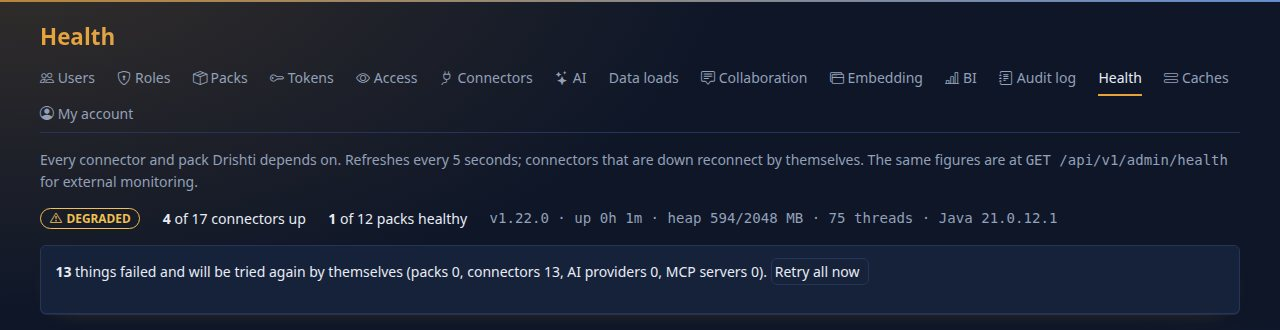
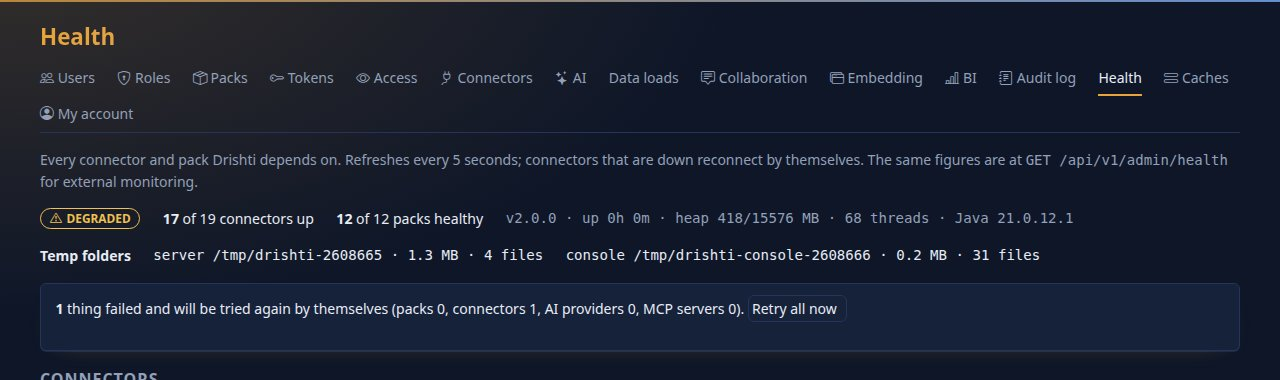
Tutorial 17: temp folders and the type-ahead index reload (new pictures, retaken Health); recipes example fixed

diff --git a/tools/docs/shots/t17.py b/tools/docs/shots/t17.py
@@ -82,8 +82,23 @@ def roles_tokens(c: Ctx):
 def health(c: Ctx):
     login(c, height=900)
     go(c, "/admin/health", wait="table", settle=2500)
-    c.save("08-health.jpg", clip={"x": 0, "y": 56, "width": 1280, "height": 330})
+    c.save("08-health.jpg", clip={"x": 0, "y": 56, "width": 1280, "height": 380})
     go(c, "/admin/caches", wait="table", settle=1500)
     c.save("09-caches.jpg", clip={"x": 0, "y": 56, "width": 1280, "height": 560})
     go(c, "/admin/audit?subject=drishti-dev-admin", wait="table", settle=1500)
     c.save("10-audit.jpg", clip={"x": 0, "y": 56, "width": 1280, "height": 640})
+
+
+@shot("11-index-reload.jpg")
+def index_reload(c: Ctx):
+    """Needs a stack that reads the demo lake (DRISHTI_DELTA_ROOT) with `index.days: 3` on the trading-store connector and a DRISHTI_INDEX_DIR of its own;
+    on the plain scratch stack the connector is down, so the picture is skipped and the one in the repository stays."""
+    import os
+    if not os.environ.get("DRISHTI_SHOTS_INDEX"):
+        print("  skipped: set DRISHTI_SHOTS_INDEX=1 on a stack with the lake and index.days: 3 on trading-store")
+        return
+    login(c, height=900)
+    go(c, "/admin/connectors/trading-store", wait="[data-index-panel] tbody tr", settle=1000)
+    c.page.locator("[data-index-panel] tbody tr").nth(1).locator("[data-index-reload]").click()
+    c.page.wait_for_timeout(2500)
+    elem_shot(c, "11-index-reload.jpg", "[data-index-panel]", pad=0)

diff --git a/docs/tutorials/17-run-it-in-production.md b/docs/tutorials/17-run-it-in-production.md
@@ -240,9 +240,17 @@ $ curl -s localhost:17480/readyz                         # the console can reach
 
 You should see `UP` four times. (`pythonRuntime` says whether Calc's browser Python is installed: only a Calc panel needs it.) For **people**, **Admin → Health**:
 
-![Admin, Health: the overall status DEGRADED, "4 of 17 connectors up", the version, uptime, heap 630/2048 MB, threads and Java; and "13 things failed and will be tried again by themselves"](img/t17/08-health.jpg)
+![Admin, Health: the overall status DEGRADED, "17 of 19 connectors up", the version, uptime, heap 418/15576 MB, threads and Java; the temp folders of the server and the console; and "1 thing failed and will be tried again by themselves"](img/t17/08-health.jpg)
 
 You should see the status (`OK`, `DEGRADED` when any source is down, stale or a pack has a problem, `DOWN` when no source is up), the version and the heap against its ceiling, and what is being retried: below it each connector with its state, last update, read latency and last error. (On this stack the lake of the banking demo was never built, so thirteen connectors are `DOWN` and retried with growing waits: a fresh install looks like this until you build it, as tutorial 1 said. The heap figure is the 2 GB ceiling you set above.)
+Under the status line, **Temp folders** names the one folder each process keeps (`drishti-<pid>` for the server, `drishti-console-<pid>` for the console, under `drishti.tmp-dir` / `DRISHTI_TMP_DIR` and `tmp_dir` / `DRISHTI_CONSOLE_TMP_DIR`) with its size and file count: DuckDB's spill, exports, uploads and Python scratch all live there, a clean stop removes it and the next start removes the folders of processes that died. If a figure there keeps growing, something is holding files open; the folder is the first place to look and is safe to leave alone.
+
+**The type-ahead index.** A connector that serves search keeps the ids it suggests as you type. With `index.days` above 1 it keeps several business days, so a past date suggests the ids of that day, and it can keep closed days on disk (`DRISHTI_INDEX_DIR`). Each connector's row on this page says how it is doing (`type-ahead index: 3 days (2 on disk, 0.1 MB), 30,000 ids, 1.6 MB, warm`), and the index follows its source by itself: a data-load signal rebuilds past days and every `index.reload-every` (10 minutes) a changed day is rebuilt. When you cannot wait (a past day was corrected with no signal), open **Admin → Connectors → the connector → Index** and press **Reload** on the day, **Reload kind**, or **Reload all**:
+
+![Admin, a connector's Index panel: the automatic check times, and the days of trade with where each is kept, its ids, size, build time and state; the second day was just reloaded](img/t17/11-index-reload.jpg)
+
+You should see the day you reloaded get a new *Built* time and stay *fresh*; the old day answered type-ahead until the new one replaced it, and one reload runs per connector at a time. Each reload is in the audit log. Sizing and the settings: [OPERATIONS.md section 12.2](../admin/OPERATIONS.md#122-sizing-the-multi-day-type-ahead-index) and [CONFIGURATION.md](../admin/CONFIGURATION.md#drishtiindex--the-multi-day-type-ahead-index). (This picture was made on a stack that reads the demo lake with `index.days: 3` on the `trading-store` connector.)
+
 For **monitoring**, Prometheus scrapes `/actuator/prometheus` with `Authorization: Bearer $DRISHTI_METRICS_TOKEN` (with security on every `/actuator` endpoint but health needs it), and there is a Grafana dashboard and a list of suggested alerts in [OPERATIONS.md section 13](../admin/OPERATIONS.md#13-monitoring). The one-call summary for a script is `GET /api/v1/admin/health`:
 
 ```text

diff --git a/docs/guides/BI_RECIPES.md b/docs/guides/BI_RECIPES.md
@@ -204,10 +204,9 @@ Shipped files are read-only. Copy one and edit the copy, which is private to you
 ## A dataset that is wrong
 
 ```
-POST /api/v1/bi/datasets/validate   {"yaml": "... measures:\n  N: { expr: \"sum(t.nope)\" }\n  M: { expr: \"lag(sum(t.a))\" }"}
+POST /api/v1/bi/datasets/validate   {"yaml": "... measures:\n  N: { expr: \"sum(t.nope)\" }"}
 {"valid": false, "problems": [
-  {"level":"error","code":"DRS-9011","path":"measures.N","message":"table 't' has no column 'nope' (it has a)"},
-  {"level":"error","code":"DRS-9013","path":"measures.M","message":"'lag' is reserved for window functions and is not built yet (time intelligence ytd, mtd, qtd, prior_period, same_period_last_year and running are built)"}]}
+  {"level":"error","code":"DRS-9011","path":"measures.N","message":"table 't' has no column 'nope' (it has a)"}]}
 ```
 
 ## Start a model from the packs
